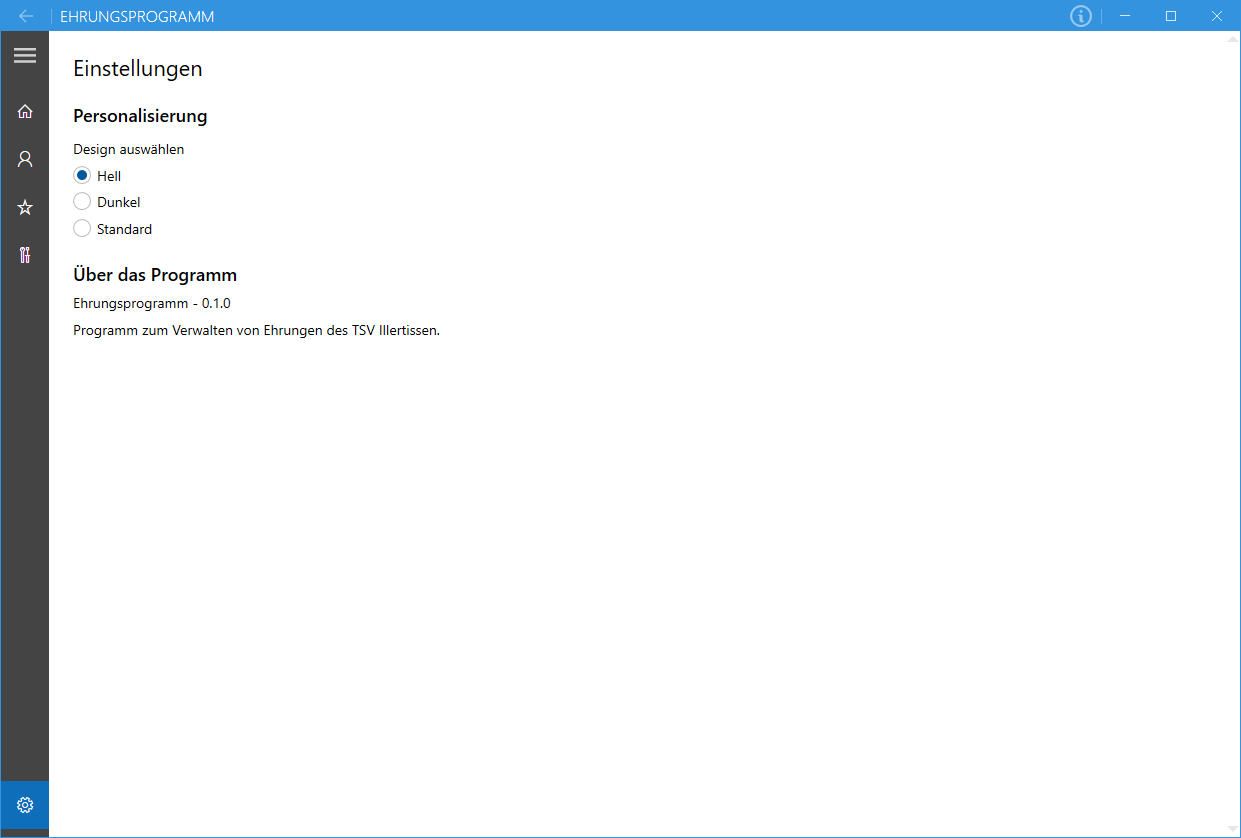
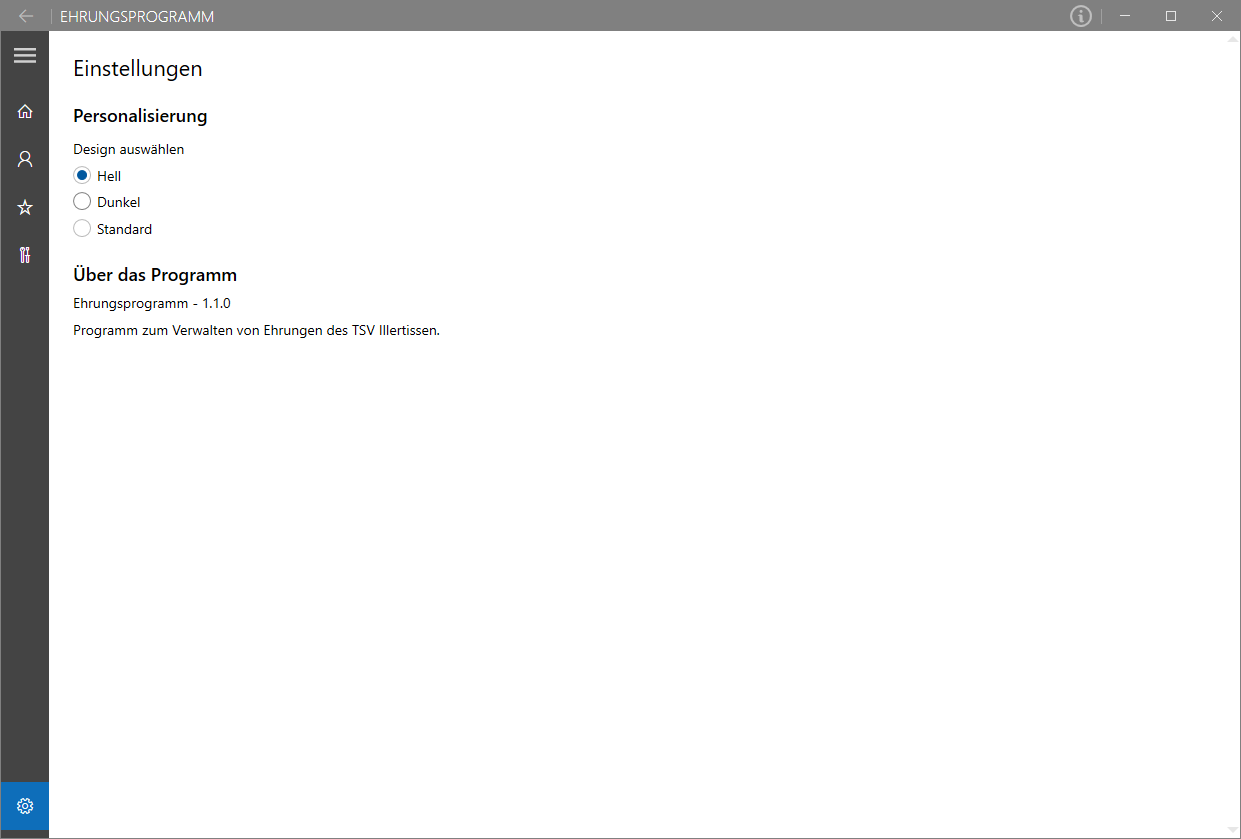
Updated Changelog, corrected screenshots

diff --git a/CHANGELOG.md b/CHANGELOG.md
@@ -1,5 +1,13 @@
 # Ehrungsprogramm Changelog
 
+## [v1.1.0]
+
+- Unbekannte/zusätzliche Ehrungen werden bei den Personen Details mit angezeigt (#15)
+- Platzhalter Texte für Leere Listen hinzugefügt (#17)
+- Erhaltene Ehrungen werden angezeigt, auch wenn sie eigentlich noch nicht verfügbar wären (#16)
+- Warnung wenn der Stichtag nicht gesetzt ist (#13)
+- AssemblyInfoHelper Library Update (v5.2.1) (#14)
+
 ## [v1.0.0]
 
 - Erste Version
